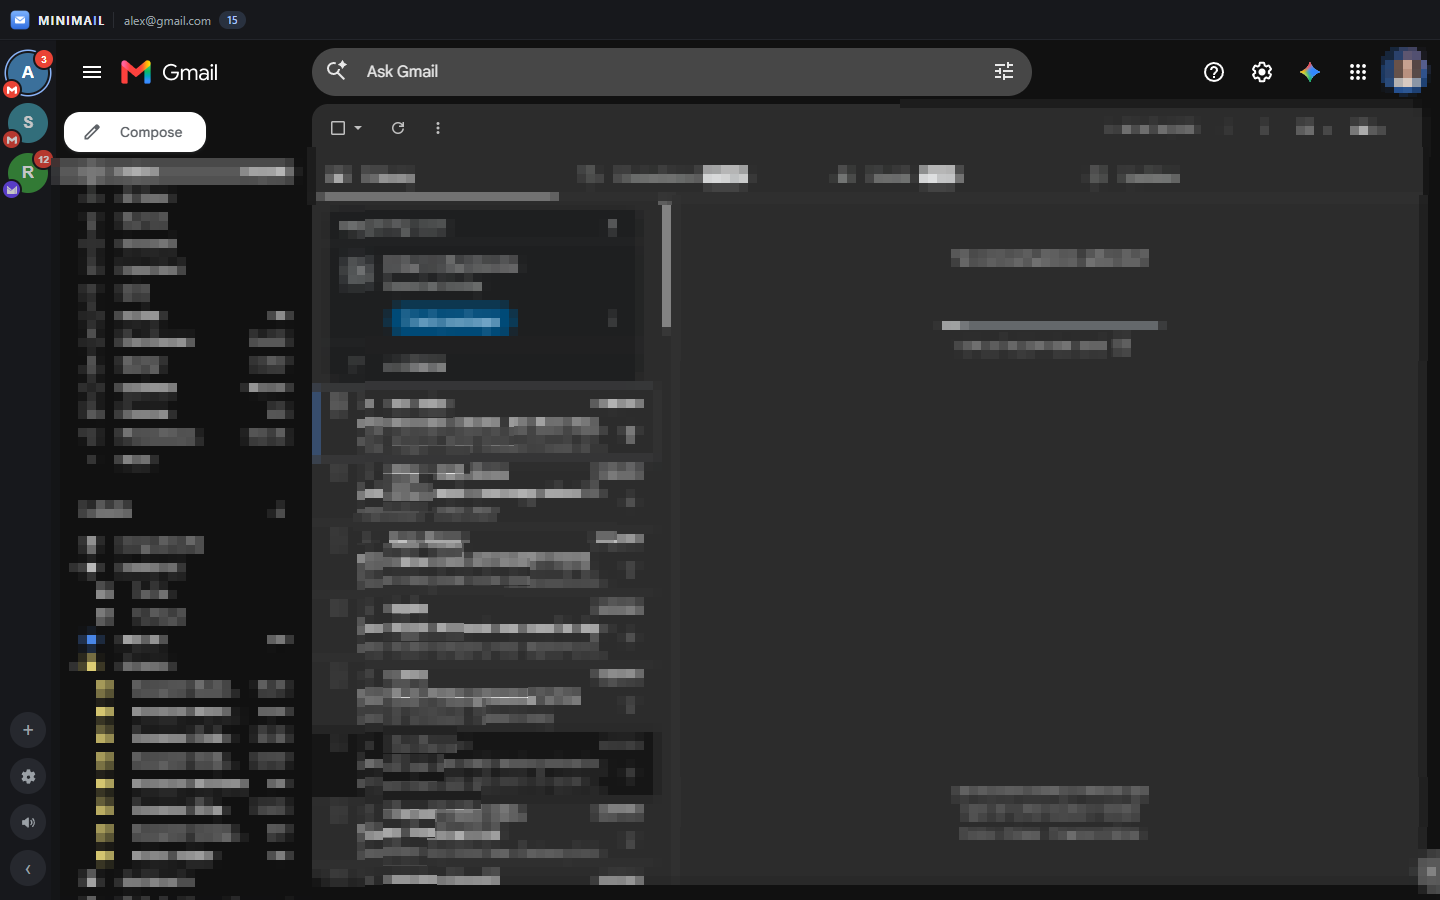
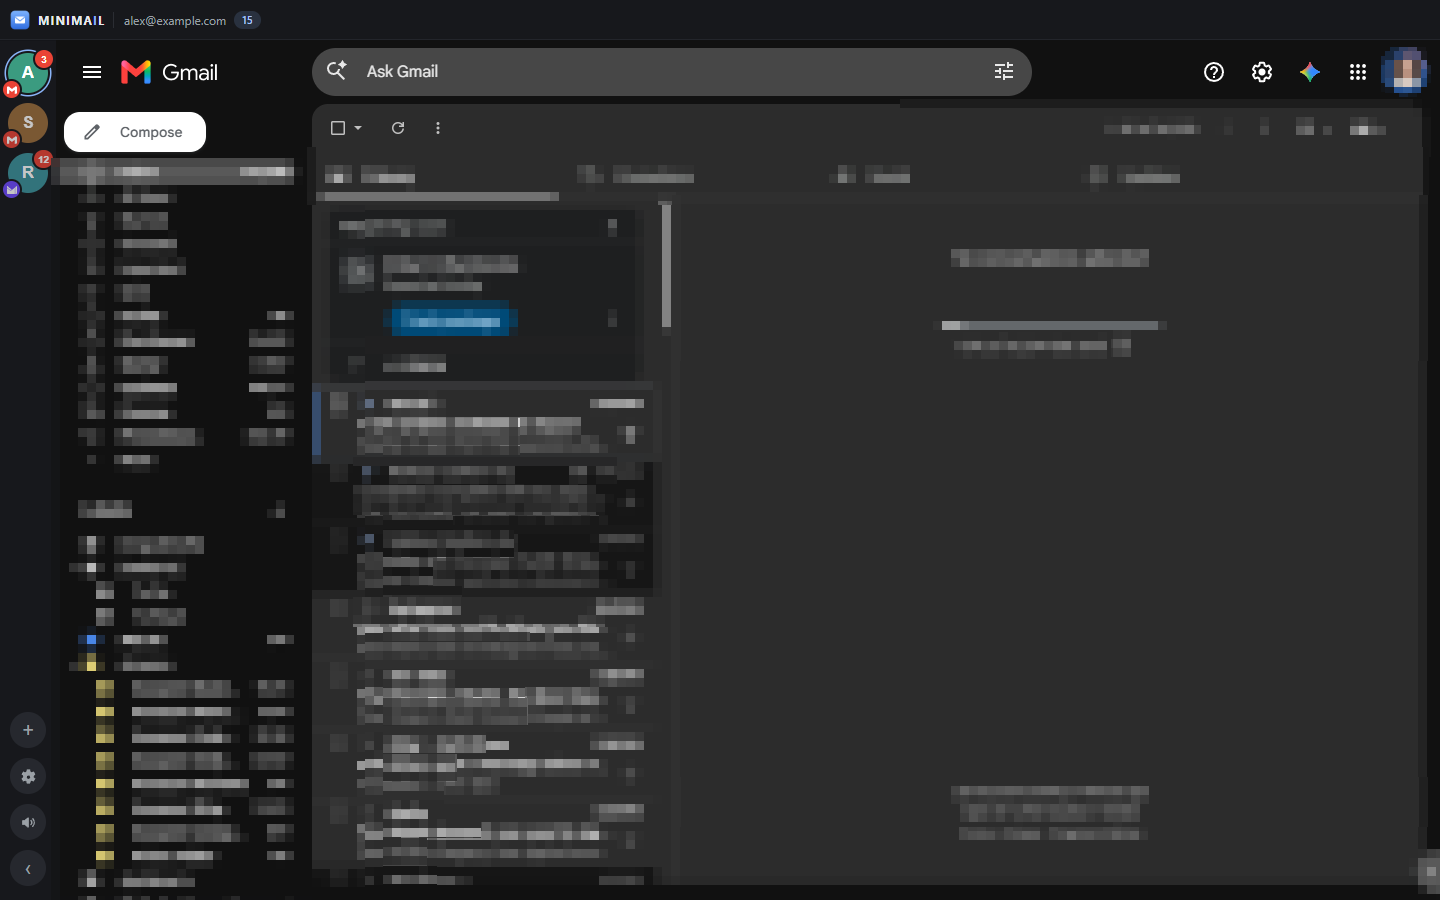
Keep what is personal out of the repo
- The example numbers in the check-in tests and comments were real mailbox
  statistics. They are neutral numbers now.
- The invented account names on the banner and in the screenshots were on real
  providers' domains, so each was somebody's address. They are on example.com,
  example.org and example.net now: reserved for exactly this.

diff --git a/test/checkin.test.js b/test/checkin.test.js
@@ -10,40 +10,40 @@ test('settleCheckIn: the real defaults, for reference', () => {
 });
 
 test('settleCheckIn: a rise is new mail, measured from the count before', () => {
-  assert.deepEqual(settleCheckIn(3957, 3960), { count: 3960, fresh: 3 });
+  assert.deepEqual(settleCheckIn(1200, 1203), { count: 1203, fresh: 3 });
   assert.deepEqual(settleCheckIn(0, 12), { count: 12, fresh: 12 });
-  assert.deepEqual(settleCheckIn(3957, 3957), { count: 3957, fresh: 0 });
+  assert.deepEqual(settleCheckIn(1200, 1200), { count: 1200, fresh: 0 });
 });
 
 test('settleCheckIn: the first count ever read is a baseline, never new mail', () => {
-  assert.deepEqual(settleCheckIn(0, 3957, { known: false }), { count: 3957, fresh: 0 });
+  assert.deepEqual(settleCheckIn(0, 1200, { known: false }), { count: 1200, fresh: 0 });
   assert.deepEqual(settleCheckIn(0, 0, { known: false }), { count: 0, fresh: 0 });
 });
 
 test('settleCheckIn: a drop to a number above zero is real (mail read elsewhere)', () => {
-  assert.deepEqual(settleCheckIn(3957, 3900), { count: 3900, fresh: 0 });
-  assert.deepEqual(settleCheckIn(3957, 1), { count: 1, fresh: 0 });
+  assert.deepEqual(settleCheckIn(1200, 1100), { count: 1100, fresh: 0 });
+  assert.deepEqual(settleCheckIn(1200, 1), { count: 1, fresh: 0 });
 });
 
 test('settleCheckIn: a zero seen too early is a page still starting up, not an empty Inbox', () => {
-  // Proton Mail shows "Inbox | …" (no number) before "(3957) Inbox | …".
-  assert.deepEqual(settleCheckIn(3957, 0), { count: 3957, fresh: 0 });
-  assert.deepEqual(settleCheckIn(3957, 0, { heldMs: CHECKIN_ZERO_HOLD_MS - 1 }), { count: 3957, fresh: 0 });
+  // Proton Mail shows "Inbox | …" (no number) before "(1200) Inbox | …".
+  assert.deepEqual(settleCheckIn(1200, 0), { count: 1200, fresh: 0 });
+  assert.deepEqual(settleCheckIn(1200, 0, { heldMs: CHECKIN_ZERO_HOLD_MS - 1 }), { count: 1200, fresh: 0 });
 });
 
 test('settleCheckIn: …and so a slow page never turns its own start-up into new mail', () => {
-  // Check 1 reads zero too early and keeps 3957. Check 2 reads the real count: unchanged, nothing new.
-  const first = settleCheckIn(3957, 0);
-  assert.deepEqual(settleCheckIn(first.count, 3957), { count: 3957, fresh: 0 });
+  // Check 1 reads zero too early and keeps 1200. Check 2 reads the real count: unchanged, nothing new.
+  const first = settleCheckIn(1200, 0);
+  assert.deepEqual(settleCheckIn(first.count, 1200), { count: 1200, fresh: 0 });
 });
 
 test('settleCheckIn: a zero that held is real, and mail after it counts from zero', () => {
-  assert.deepEqual(settleCheckIn(3957, 0, { heldMs: CHECKIN_ZERO_HOLD_MS }), { count: 0, fresh: 0 });
+  assert.deepEqual(settleCheckIn(1200, 0, { heldMs: CHECKIN_ZERO_HOLD_MS }), { count: 0, fresh: 0 });
   assert.deepEqual(settleCheckIn(0, 0), { count: 0, fresh: 0 });
   assert.deepEqual(settleCheckIn(0, 2), { count: 2, fresh: 2 });
 });
 
 test('settleCheckIn: how long a zero has to hold can be shortened, for tests', () => {
-  assert.deepEqual(settleCheckIn(3957, 0, { heldMs: 1400, holdMs: 1500 }), { count: 3957, fresh: 0 });
-  assert.deepEqual(settleCheckIn(3957, 0, { heldMs: 1500, holdMs: 1500 }), { count: 0, fresh: 0 });
+  assert.deepEqual(settleCheckIn(1200, 0, { heldMs: 1400, holdMs: 1500 }), { count: 1200, fresh: 0 });
+  assert.deepEqual(settleCheckIn(1200, 0, { heldMs: 1500, holdMs: 1500 }), { count: 0, fresh: 0 });
 });

diff --git a/src/bench.js b/src/bench.js
@@ -186,7 +186,7 @@ async function shot(wc, file) {
 // The two unloading switches, on short timers, on the real pages: what they
 // free, and — the point — what the service without a feed reports when it is
 // loaded out of sight, read and closed. Proton Mail shows "Inbox | …" (no
-// number) before "(3957) Inbox | …" on every load; none of that may come out
+// number) before "(1200) Inbox | …" on every load; none of that may come out
 // as new mail.
 async function dozeTimeline(target, accounts, at) {
   const toasts = [];
@@ -249,7 +249,9 @@ async function lingerTimeline(target, accounts, at) {
 // page is pixelated wherever mail is, and those places are read from the
 // page's own layout rather than looked for by eye, so nobody has to see the
 // mail to hide it. The window is shown, without focus, for about two seconds.
-const DEMO_LABELS = ['alex@gmail.com', 'sam@northwind.co', 'riley@proton.me', 'casey@yahoo.com', 'jordan@outlook.com', 'taylor@aol.com'];
+// Invented names for Minimail's own chrome, on domains that are reserved for
+// examples and so cannot be anybody's address.
+const DEMO_LABELS = ['alex@example.com', 'sam@example.org', 'riley@example.net', 'casey@example.com', 'jordan@example.org', 'taylor@example.net'];
 const DEMO_COUNTS = [3, 0, 12, 0, 0, 0];
 const PIXEL = 9; // one pixelated block, in CSS pixels
 
@@ -290,7 +292,7 @@ const PRIVATE_ZONES = {
     for (let node = walker.nextNode(); node; node = walker.nextNode()) {
       const el = node.parentElement;
       if (!el || seen.has(el) || el.children.length > 12 || !tell.test(el.textContent)) continue;
-      seen.add(el); // tested as a whole: "1–50 of 362,255" and "10% of 10,244 GB used" are split across elements
+      seen.add(el); // tested as a whole: "1–50 of 1,234" and "25% of 15 GB used" are split across elements
       if (visible(el)) zones.push(box(el));
     }
     return { zones, vw: innerWidth, vh: innerHeight };

diff --git a/src/parsers.js b/src/parsers.js
@@ -233,12 +233,12 @@ function riseStep(state, count, now) {
 // and closes it again, every few minutes. What the title last showed cannot
 // simply be taken as the count, because a page reports no count — or zero —
 // while it is still starting up (Proton Mail shows "Inbox | …" before
-// "(3957) Inbox | …"). So, between the count before and the last one seen:
+// "(1200) Inbox | …"). So, between the count before and the last one seen:
 // - a rise is real: no page reports more than it has while loading;
 // - a drop to a number above zero is real, for the same reason;
 // - a drop to zero is real only once the page has finished loading and has
 //   stayed at zero for CHECKIN_ZERO_HOLD_MS. Until then the old count stands,
-//   so a slow page can never turn its own start-up into "3957 new messages"
+//   so a slow page can never turn its own start-up into "1200 new messages"
 //   at the next check.
 // Returns the count to show and how many new messages arrived. `known` false
 // means the account's count has never been read this session: the first

diff --git a/src/diagnostics.js b/src/diagnostics.js
@@ -670,7 +670,7 @@ async function experiment(target) {
     check('…and closing its page again', await until(() => !protonRec().checking && !protonRec().view));
     check('…with its count brought up to date', (await account(protonId)).count === 5, JSON.stringify(await account(protonId)));
 
-    // Proton Mail shows "Inbox | …" (no number) before "(3957) Inbox | …" on
+    // Proton Mail shows "Inbox | …" (no number) before "(1200) Inbox | …" on
     // every load, and shows nothing at all for an empty Inbox.
     await until(() => protonRec().checking);
     await setTitle(protonRec().view.webContents, 'Inbox | someone@proton.me | Proton Mail');

diff --git a/scripts/make-banner.js b/scripts/make-banner.js
@@ -109,7 +109,7 @@ const html = `<!doctype html><meta charset="utf-8"><style>
   <div class="chips">${chips}</div>
 </div>
 <div class="mock">
-  <div class="bar"><img src="${logo}" alt=""><span class="w">MINIMA<span class="i">I</span>L</span><span class="a">alex@gmail.com</span><span class="u">15</span></div>
+  <div class="bar"><img src="${logo}" alt=""><span class="w">MINIMA<span class="i">I</span>L</span><span class="a">alex@example.com</span><span class="u">15</span></div>
   <div class="body">
     <div class="side">
       ${accounts
